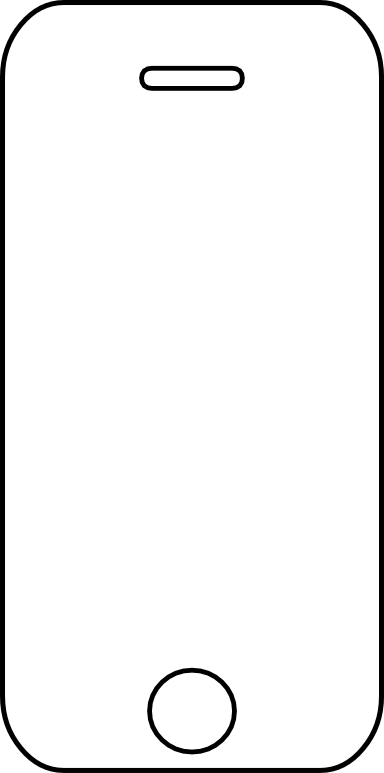
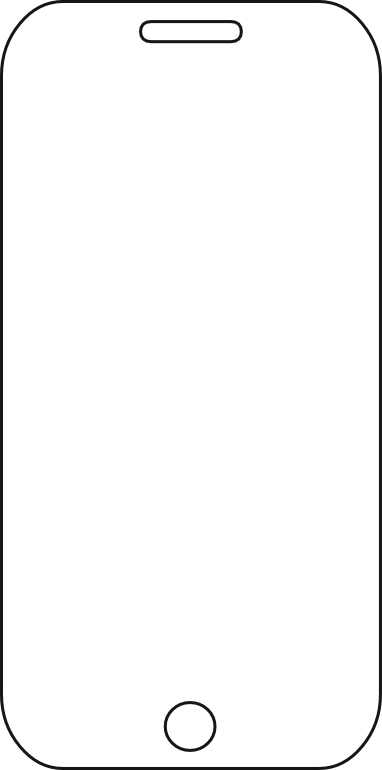
Added phone image

diff --git a/public/src/js/app/templates/views/login.html b/public/src/js/app/templates/views/login.html
@@ -22,7 +22,9 @@
             <ul rn-carousel rn-carousel-index="carouselIndex" rn-carousel-buffered class="sp-carousel-image">
                 <li ng-repeat="image in images track by $index">
                     <h4>{{image.text}}</h4>
-                    <div class="sp-carousel-layer" ng-style="{'background-image': 'url(' + '{{image.url}}' + ')'}"></div>
+                    <div class="sp-phone">
+                        <div class="sp-phone-photo" ng-style="{'background-image': 'url(' + '{{image.url}}' + ')'}"></div>
+                    </div>
                 </li>
             </ul>
             <div class="rn-carousel-indicator custom-indicator">

diff --git a/public/src/css/views/login.css b/public/src/css/views/login.css
@@ -121,12 +121,22 @@
 }
 
 /* carousel */
-.sp-login-carousel .sp-carousel-layer {
+.sp-login-carousel .sp-phone {
+    padding-top: 7%;
     height: calc(100% - 70px);
     width: auto;
     margin: 0 auto;
+    background-image: url('/src/img/phone.png');
     background-repeat: no-repeat;
     background-position: center;
+    background-size: contain;
+}
+
+.sp-phone .sp-phone-photo {
+    width: auto;
+    height: 85%;
+    background-repeat: no-repeat;
+    background-position-x: center;
     background-size: contain;
 }
 

diff --git a/public/src/js/app/app.js b/public/src/js/app/app.js
@@ -44,7 +44,7 @@ spacebox.run(['$window', '$timeout', '$rootScope', '$location', '$log', '$route'
     function ($window, $timeout, $rootScope, $location, $log, $route, VkService, ConfigService, UserService, ErrorHandler, amMoment, localStorageService) {
         amMoment.changeLocale('ru');
 
-        // Google Analytics
+        // Google Analytics Cordova Plugin
         if (!angular.isUndefined($window.analytics)) {
             $window.analytics.startTrackerWithId('UA-58861419-1');
         }
